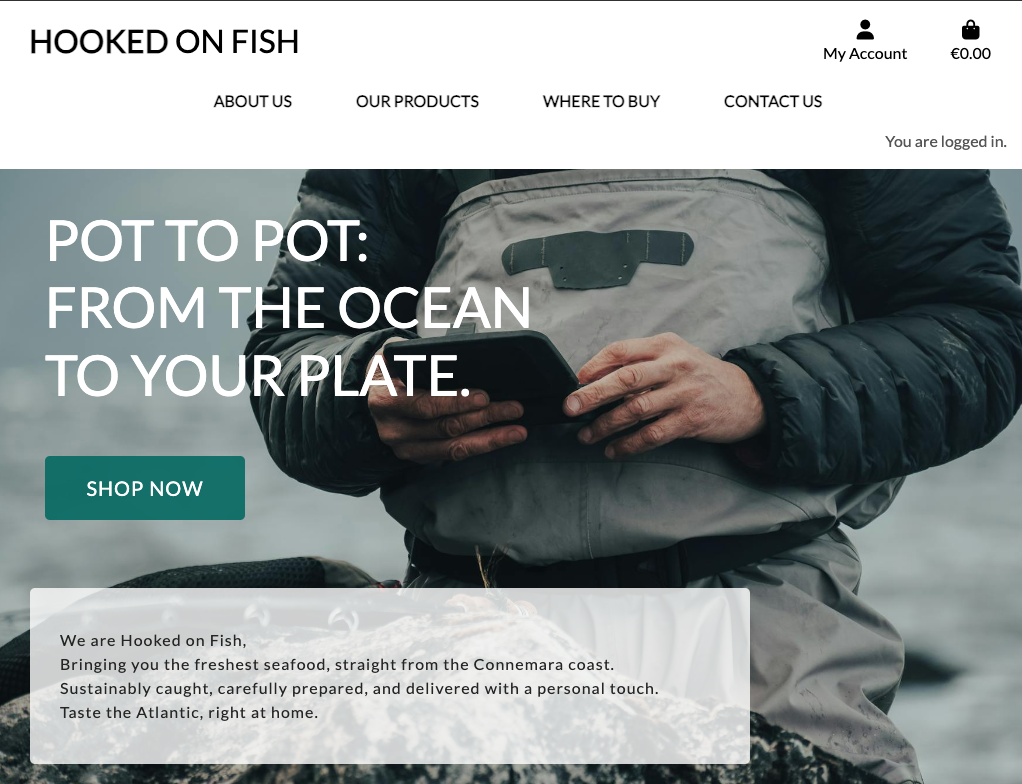
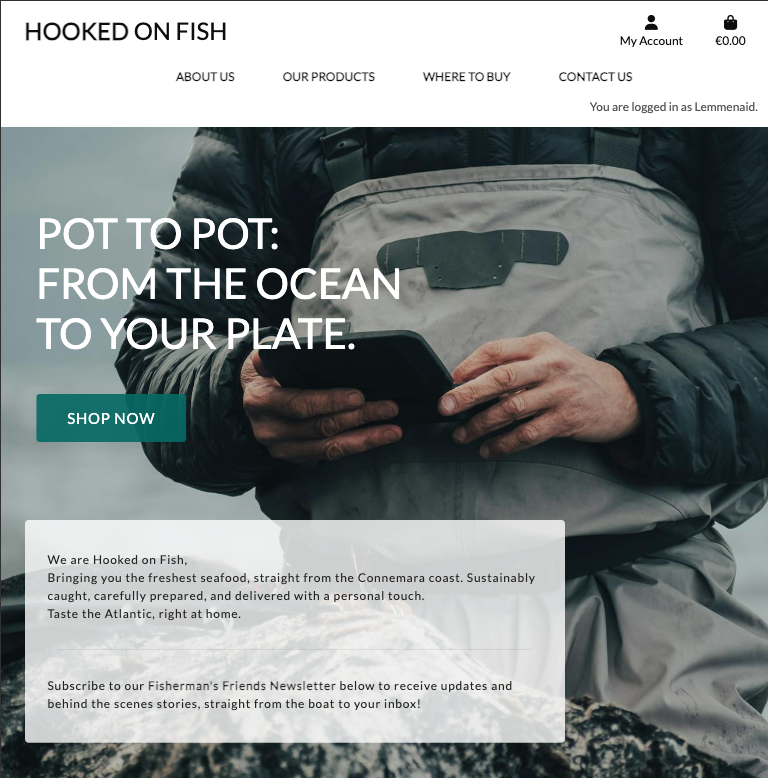
Added newsletter info to home page

diff --git a/templates/base.html b/templates/base.html
@@ -178,6 +178,7 @@
             <!-- Social media -->
             <div class="footer-social mb-4 mt-3 text-center">
                 <a href="https://www.facebook.com/people/Hooked-on-Fish/61573856408153/" target="_blank" aria-label="link to facebook page"><i class="fab fa-facebook-square"></i> Follow us on Facebook</a>
+                <br>
                 <a href="https://www.instagram.com/karlanlemmen/?hl=en" target="_blank" aria-label="link to instagram page"><i class="fab fa-instagram-square"></i> Follow us on Instagram</a>
             </div>
             <div class="footer mb-3 py-3 nav-bg text-center text-black">

diff --git a/home/templates/home/index.html b/home/templates/home/index.html
@@ -36,6 +36,11 @@
         <br>
         Taste the Atlantic, right at home.
       </p>
+      <hr class="col-10">
+      <p>
+        Subscribe to our <strong>Fisherman's Friends Newsletter</strong> below to receive updates and behind the scenes stories,
+straight from the boat to your inbox!
+      </p>
     </div>
   </div>
 </div>

diff --git a/static/css/base.css b/static/css/base.css
@@ -521,3 +521,11 @@ body {
         letter-spacing: 1px;
     }
 }
+
+/* small mobile screens only */
+@media (max-width: 450px) {
+    .footer-container {
+        margin-top: 200px;
+       
+    }
+}
